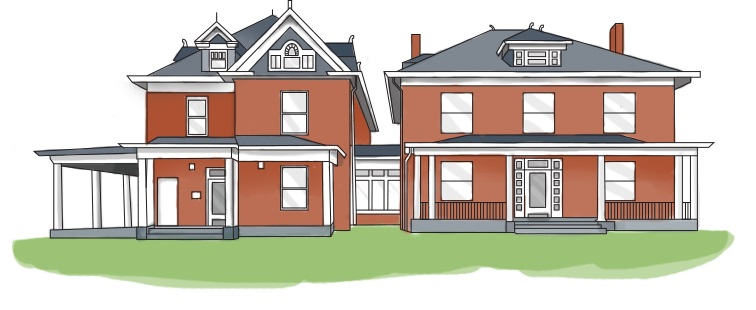
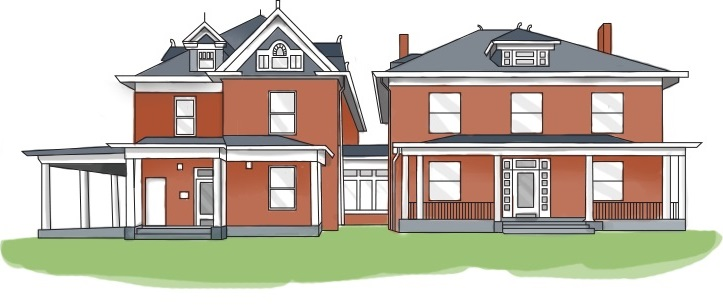
iphone programs

Changed region(s): [[0.0, 0.0, 1.0, 0.9674]]

diff --git a/programs.html b/programs.html
@@ -77,7 +77,7 @@
         <div class="page-content">
             <div class="container">
                 <div class="text-center">
-                    <img src="assets/img/TrustHouse.jpg" />
+                    <img src="assets/img/TrustHouse.jpg" class="img-responsive center-block" />
                 </div>
                 <h2>Trust House Shelter Programs</h2>
                 <p><b>Heroes Refuge:</b> 15-bed shelter dedicated to homeless male veterans</p>
@@ -100,7 +100,7 @@
                 <br>
                 <br />
                 <div class="text-center">
-                    <img src="assets/img/BH.jpg" />
+                    <img src="assets/img/BH.jpg" class="img-responsive center-block" />
                 </div>
                 <h2>Peer Supported Recovery Houses</h2>
                 <p><b>Bethany Hall:</b> This program is also located in Old Southwest Roanoke and provides residential substance abuse treatment and a second chance for women, pregnant women, and recently postpartum women in recovery from drugs and alcohol. We offer a holistic approach to recovery and provide a supportive and healing treatment environment. In operation for the last 45 years, this program is pivotal in the success of women’s recovery as well as the health of their unborn babies.</p>
